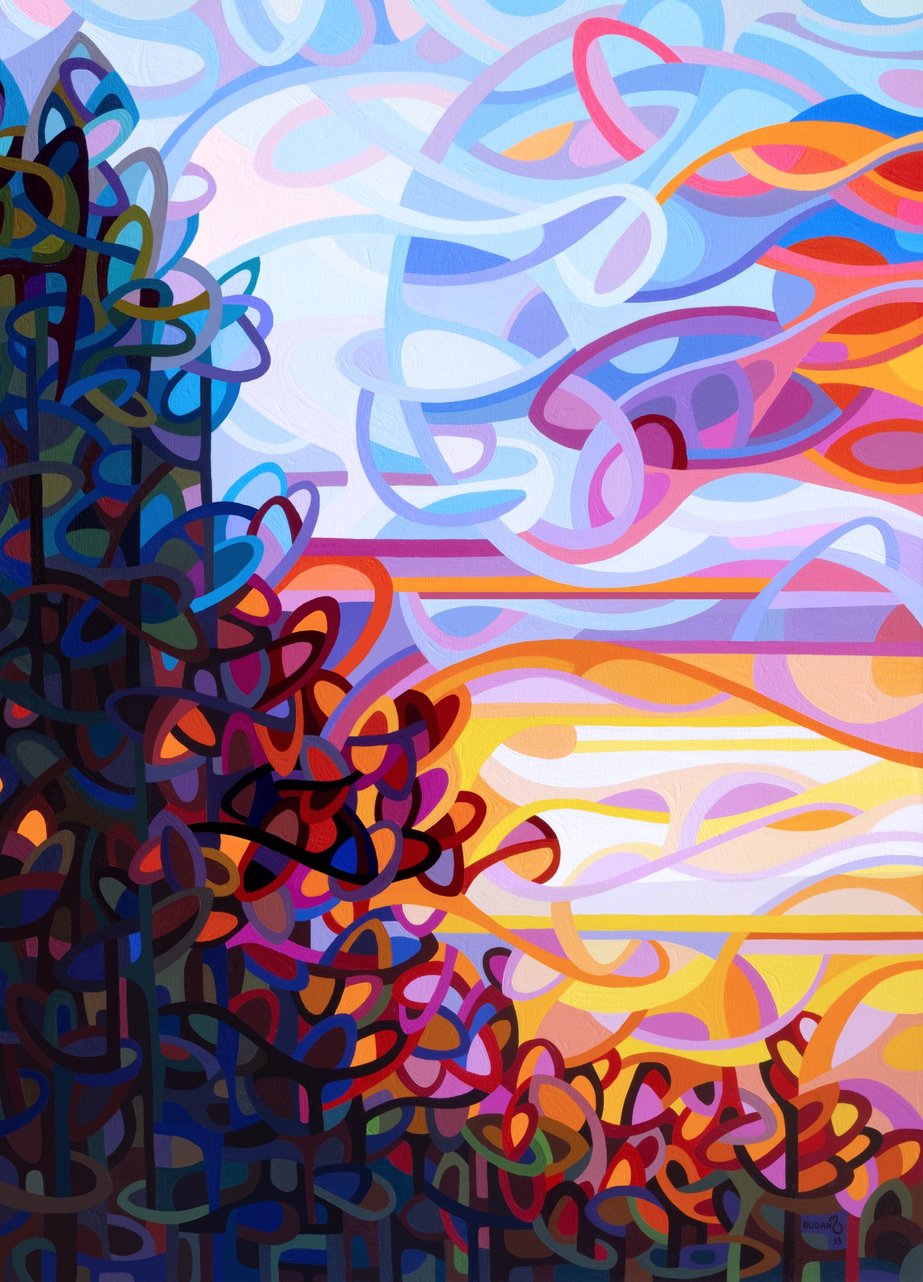
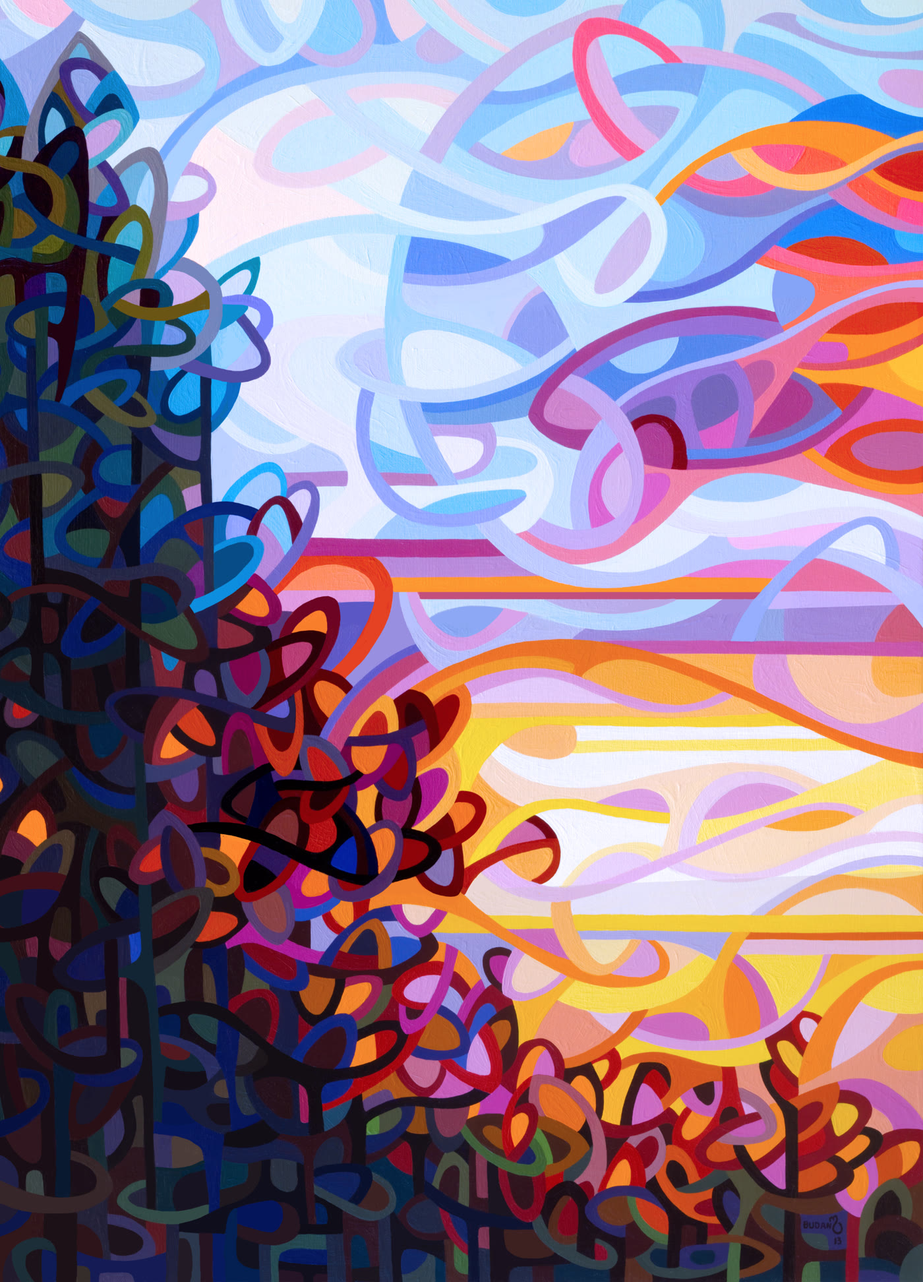
chore: web-optimize batch 2 2013 (6 paintings) [v2.7.92]

diff --git a/html/2013-tangled-shore.html b/html/2013-tangled-shore.html
@@ -2,7 +2,7 @@
 <html lang="en">
 <head>
 <link rel="stylesheet" href="../css/style.css">
-<!-- ALP Design v2.7.88 | Detail Page | Generated: 2026-09-10 -->
+<!-- ALP Design v2.7.92 | Detail Page | Generated: 2026-09-10 -->
 <meta charset="UTF-8">
 <meta name="description" content="2013 Tangled Shore () - A fall day full of colour and exuberance, duly reflected by the placid lake.">
 <meta property="og:title" content="The Tangled Shore - Mandy Budan Art">
@@ -59,7 +59,7 @@
 <main>
   <section class="detail">
   <div class="detail-grid">
-    <div class="detail-image"><img src="../images/2013-tangled-shore.jpg" alt="A fall day full of colour and exuberance, duly reflected by the placid lake. by Mandy Budan"></div>
+    <div class="detail-image"><img src="../images/2013-tangled-shore_detail.jpg" alt="A fall day full of colour and exuberance, duly reflected by the placid lake. by Mandy Budan"></div>
     <div class="detail-info">
       <h1>The Tangled Shore</h1>
       <div class="detail-meta">2013 - 11 x 14 - acrylic on wood<span class="soldbadge"></span></div>

diff --git a/html/2013-iris-squared.html b/html/2013-iris-squared.html
@@ -2,7 +2,7 @@
 <html lang="en">
 <head>
 <link rel="stylesheet" href="../css/style.css">
-<!-- ALP Design v2.7.88 | Detail Page | Generated: 2026-09-10 -->
+<!-- ALP Design v2.7.92 | Detail Page | Generated: 2026-09-10 -->
 <meta charset="UTF-8">
 <meta name="description" content="2013 Iris Squared () - A troop of irises rests on a field of summer yellow.">
 <meta property="og:title" content="Iris Squared - Mandy Budan Art">
@@ -59,7 +59,7 @@
 <main>
   <section class="detail">
   <div class="detail-grid">
-    <div class="detail-image"><img src="../images/2013-iris-squared.jpg" alt="A troop of irises rests on a field of summer yellow. by Mandy Budan"></div>
+    <div class="detail-image"><img src="../images/2013-iris-squared_detail.jpg" alt="A troop of irises rests on a field of summer yellow. by Mandy Budan"></div>
     <div class="detail-info">
       <h1>Iris Squared</h1>
       <div class="detail-meta">2013 - 8 x 8 - acrylic on wood<span class="soldbadge"></span></div>

diff --git a/html/2013-carnelian-morning.html b/html/2013-carnelian-morning.html
@@ -2,7 +2,7 @@
 <html lang="en">
 <head>
 <link rel="stylesheet" href="../css/style.css">
-<!-- ALP Design v2.7.88 | Detail Page | Generated: 2026-09-10 -->
+<!-- ALP Design v2.7.92 | Detail Page | Generated: 2026-09-10 -->
 <meta charset="UTF-8">
 <meta name="description" content="2013 Carnelian Morning () - The morning sun warms the forest floor, turning the ground into pools of red. As the early sky lightens, the dark trunks are...">
 <meta property="og:title" content="Carnelian Morning - Mandy Budan Art">

diff --git a/html/2013-october-gold.html b/html/2013-october-gold.html
@@ -2,7 +2,7 @@
 <html lang="en">
 <head>
 <link rel="stylesheet" href="../css/style.css">
-<!-- ALP Design v2.7.88 | Detail Page | Generated: 2026-09-10 -->
+<!-- ALP Design v2.7.92 | Detail Page | Generated: 2026-09-10 -->
 <meta charset="UTF-8">
 <meta name="description" content="2013 October Gold () - A single tree stands resplendent in the sun of an October afternoon. The gold of its leaves a counterpoint to the muted blues beh...">
 <meta property="og:title" content="October Gold - Mandy Budan Art">

diff --git a/html/2013-crescendo.html b/html/2013-crescendo.html
@@ -2,7 +2,7 @@
 <html lang="en">
 <head>
 <link rel="stylesheet" href="../css/style.css">
-<!-- ALP Design v2.7.88 | Detail Page | Generated: 2026-09-10 -->
+<!-- ALP Design v2.7.92 | Detail Page | Generated: 2026-09-10 -->
 <meta charset="UTF-8">
 <meta name="description" content="2013 Crescendo () - As the sun sinks behind dark trees standing like sentinels, the blue of the coming night mingles with the last bright colours of the...">
 <meta property="og:title" content="Crescendo - Mandy Budan Art">

diff --git a/html/2013-summer-in-the-garden.html b/html/2013-summer-in-the-garden.html
@@ -2,7 +2,7 @@
 <html lang="en">
 <head>
 <link rel="stylesheet" href="../css/style.css">
-<!-- ALP Design v2.7.88 | Detail Page | Generated: 2026-09-10 -->
+<!-- ALP Design v2.7.92 | Detail Page | Generated: 2026-09-10 -->
 <meta charset="UTF-8">
 <meta name="description" content="2013 Summer In The Garden () - Nestled in the greens and blues of the summer garden, the sunflowers glow with joyful exuberance.">
 <meta property="og:title" content="Summer in the Garden - Mandy Budan Art">

diff --git a/paintings.html b/paintings.html
@@ -1,5 +1,5 @@
 <!DOCTYPE html>
-<!-- ALP Design v2.7.91 | Paintings Page -->
+<!-- ALP Design v2.7.92 | Paintings Page -->
 <html lang="en">
 <head>
 <meta charset="UTF-8">

diff --git a/index.html b/index.html
@@ -1,5 +1,5 @@
 <!DOCTYPE html>
-<!-- ALP Design v2.7.91 | Landing Page -->
+<!-- ALP Design v2.7.92 | Landing Page -->
 <html lang="en">
 <head>
 <meta charset="UTF-8">

diff --git a/alp-reprocess-manifest.md b/alp-reprocess-manifest.md
@@ -11,11 +11,19 @@ Batch 1: 2011–2012 (11 paintings)
 - 2011-the-river
 - 2012-cascade
 - 2012-hide-and-seek
-- 2012-hockley-valley (dimension data error: "12 x 2160" — needs correction)
+- 2012-hockley-valley (dimension corrected to 12 x 16)
 - 2012-ribbons-and-pearls
 - 2012-standing-room-only
 - 2012-thaw
 - 2012-the-buddha-tree
+
+Batch 2: 2013 (6 paintings)
+- 2013-carnelian-morning
+- 2013-crescendo
+- 2013-iris-squared
+- 2013-october-gold
+- 2013-summer-in-the-garden
+- 2013-tangled-shore (source zip filename was 2013-the-tangled-shore.jpg — canonicalized)
 
 ## In Progress
 
